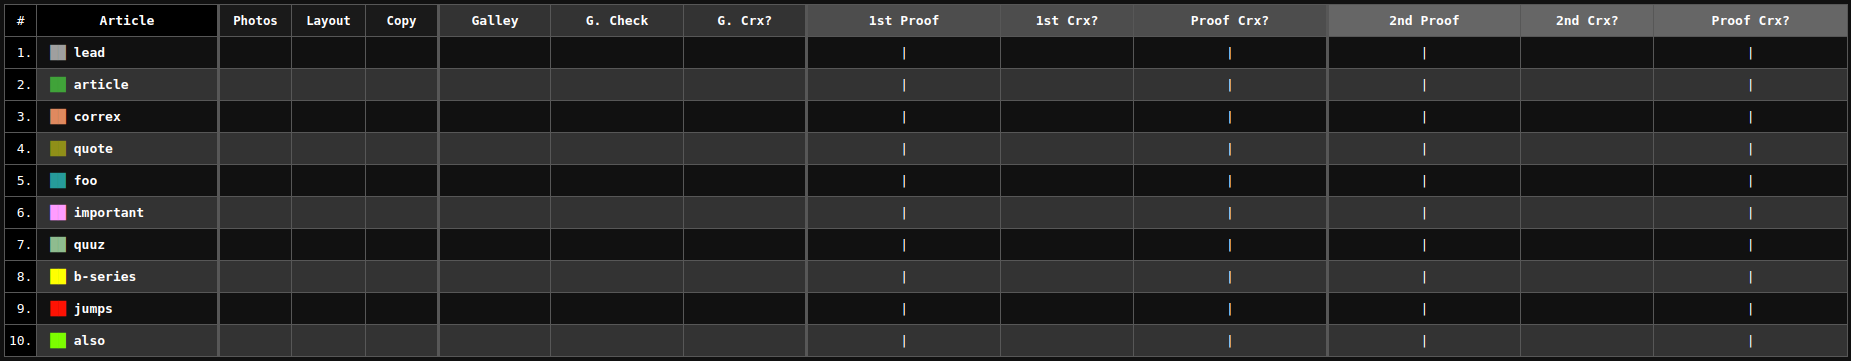
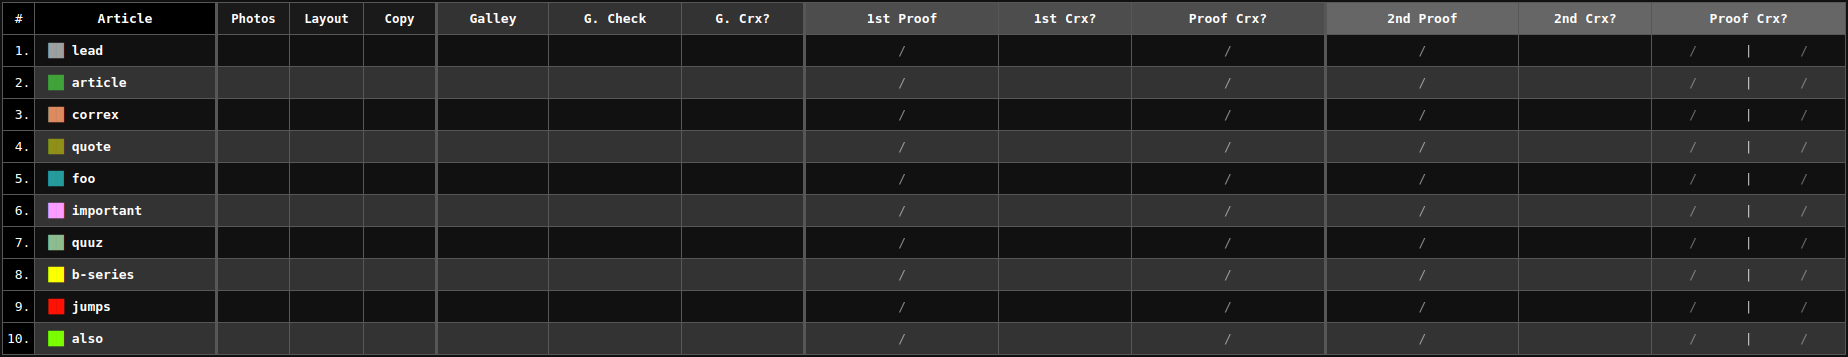
Tweak bev styles for proofing

diff --git a/docs/example/pubmap.html b/docs/example/pubmap.html
@@ -1,6 +1,6 @@
 <html>
   <head>
-    <title>📄 My Publication No. 1337 (rev: 1970-01-01T01:01:00Z)</title>
+    <title>📄 My Publication No. 1337 (rev: 1970-01-01T01:01:01Z)</title>
     <meta name="dcterms.created" content="1970-01-01" />
     <style>
       :root {
@@ -385,6 +385,14 @@
       .bev td {
         text-align: center;
       }
+      .bev .double {
+        display: flex;
+        justify-content: space-around;
+        opacity: 0.75;
+      }
+      .bev .team {
+        opacity: 0.5;
+      }
       .bev .two-person {
         min-width: 10em;
       }
@@ -529,7 +537,7 @@
 
   <body>
     <header id="masthead">
-      <h1>📄 My Publication No. 1337 (rev: 1970-01-01T01:01:00Z)</h1>
+      <h1>📄 My Publication No. 1337 (rev: 1970-01-01T01:01:01Z)</h1>
     </header>
     <main>
       <div class="section-map">
@@ -1390,12 +1398,18 @@
                 <td></td>
                 <td></td>
                 <td class="phase-end"></td>
-                <td>|</td>
+                <td><span class="team">/</span></td>
                 <td></td>
-                <td class="phase-end">|</td>
-                <td>|</td>
+                <td class="phase-end"><span class="team">/</span></td>
+                <td><span class="team">/</span></td>
                 <td></td>
-                <td>|</td>
+                <td>
+                  <div class="double">
+                    <span class="team">/</span>
+                    <span>|</span>
+                    <span class="team">/</span>
+                  </div>
+                </td>
               </tr>
 
               <tr
@@ -1416,12 +1430,18 @@
                 <td></td>
                 <td></td>
                 <td class="phase-end"></td>
-                <td>|</td>
+                <td><span class="team">/</span></td>
                 <td></td>
-                <td class="phase-end">|</td>
-                <td>|</td>
+                <td class="phase-end"><span class="team">/</span></td>
+                <td><span class="team">/</span></td>
                 <td></td>
-                <td>|</td>
+                <td>
+                  <div class="double">
+                    <span class="team">/</span>
+                    <span>|</span>
+                    <span class="team">/</span>
+                  </div>
+                </td>
               </tr>
 
               <tr
@@ -1442,12 +1462,18 @@
                 <td></td>
                 <td></td>
                 <td class="phase-end"></td>
-                <td>|</td>
+                <td><span class="team">/</span></td>
                 <td></td>
-                <td class="phase-end">|</td>
-                <td>|</td>
+                <td class="phase-end"><span class="team">/</span></td>
+                <td><span class="team">/</span></td>
                 <td></td>
-                <td>|</td>
+                <td>
+                  <div class="double">
+                    <span class="team">/</span>
+                    <span>|</span>
+                    <span class="team">/</span>
+                  </div>
+                </td>
               </tr>
 
               <tr
@@ -1468,12 +1494,18 @@
                 <td></td>
                 <td></td>
                 <td class="phase-end"></td>
-                <td>|</td>
+                <td><span class="team">/</span></td>
                 <td></td>
-                <td class="phase-end">|</td>
-                <td>|</td>
+                <td class="phase-end"><span class="team">/</span></td>
+                <td><span class="team">/</span></td>
                 <td></td>
-                <td>|</td>
+                <td>
+                  <div class="double">
+                    <span class="team">/</span>
+                    <span>|</span>
+                    <span class="team">/</span>
+                  </div>
+                </td>
               </tr>
 
               <tr
@@ -1494,12 +1526,18 @@
                 <td></td>
                 <td></td>
                 <td class="phase-end"></td>
-                <td>|</td>
+                <td><span class="team">/</span></td>
                 <td></td>
-                <td class="phase-end">|</td>
-                <td>|</td>
+                <td class="phase-end"><span class="team">/</span></td>
+                <td><span class="team">/</span></td>
                 <td></td>
-                <td>|</td>
+                <td>
+                  <div class="double">
+                    <span class="team">/</span>
+                    <span>|</span>
+                    <span class="team">/</span>
+                  </div>
+                </td>
               </tr>
 
               <tr
@@ -1520,12 +1558,18 @@
                 <td></td>
                 <td></td>
                 <td class="phase-end"></td>
-                <td>|</td>
+                <td><span class="team">/</span></td>
                 <td></td>
-                <td class="phase-end">|</td>
-                <td>|</td>
+                <td class="phase-end"><span class="team">/</span></td>
+                <td><span class="team">/</span></td>
                 <td></td>
-                <td>|</td>
+                <td>
+                  <div class="double">
+                    <span class="team">/</span>
+                    <span>|</span>
+                    <span class="team">/</span>
+                  </div>
+                </td>
               </tr>
 
               <tr
@@ -1546,12 +1590,18 @@
                 <td></td>
                 <td></td>
                 <td class="phase-end"></td>
-                <td>|</td>
+                <td><span class="team">/</span></td>
                 <td></td>
-                <td class="phase-end">|</td>
-                <td>|</td>
+                <td class="phase-end"><span class="team">/</span></td>
+                <td><span class="team">/</span></td>
                 <td></td>
-                <td>|</td>
+                <td>
+                  <div class="double">
+                    <span class="team">/</span>
+                    <span>|</span>
+                    <span class="team">/</span>
+                  </div>
+                </td>
               </tr>
 
               <tr
@@ -1572,12 +1622,18 @@
                 <td></td>
                 <td></td>
                 <td class="phase-end"></td>
-                <td>|</td>
+                <td><span class="team">/</span></td>
                 <td></td>
-                <td class="phase-end">|</td>
-                <td>|</td>
+                <td class="phase-end"><span class="team">/</span></td>
+                <td><span class="team">/</span></td>
                 <td></td>
-                <td>|</td>
+                <td>
+                  <div class="double">
+                    <span class="team">/</span>
+                    <span>|</span>
+                    <span class="team">/</span>
+                  </div>
+                </td>
               </tr>
 
               <tr
@@ -1598,12 +1654,18 @@
                 <td></td>
                 <td></td>
                 <td class="phase-end"></td>
-                <td>|</td>
+                <td><span class="team">/</span></td>
                 <td></td>
-                <td class="phase-end">|</td>
-                <td>|</td>
+                <td class="phase-end"><span class="team">/</span></td>
+                <td><span class="team">/</span></td>
                 <td></td>
-                <td>|</td>
+                <td>
+                  <div class="double">
+                    <span class="team">/</span>
+                    <span>|</span>
+                    <span class="team">/</span>
+                  </div>
+                </td>
               </tr>
 
               <tr
@@ -1624,12 +1686,18 @@
                 <td></td>
                 <td></td>
                 <td class="phase-end"></td>
-                <td>|</td>
+                <td><span class="team">/</span></td>
                 <td></td>
-                <td class="phase-end">|</td>
-                <td>|</td>
+                <td class="phase-end"><span class="team">/</span></td>
+                <td><span class="team">/</span></td>
                 <td></td>
-                <td>|</td>
+                <td>
+                  <div class="double">
+                    <span class="team">/</span>
+                    <span>|</span>
+                    <span class="team">/</span>
+                  </div>
+                </td>
               </tr>
             </tbody>
           </table>

diff --git a/src/share/pubmap/html/tr-bev.html b/src/share/pubmap/html/tr-bev.html
@@ -16,10 +16,16 @@
   <td></td>
   <td></td>
   <td class="phase-end"></td>
-  <td>|</td>
+  <td><span class="team">/</span></td>
   <td></td>
-  <td class="phase-end">|</td>
-  <td>|</td>
+  <td class="phase-end"><span class="team">/</span></td>
+  <td><span class="team">/</span></td>
   <td></td>
-  <td>|</td>
+  <td>
+    <div class="double">
+      <span class="team">/</span>
+      <span>|</span>
+      <span class="team">/</span>
+    </div>
+  </td>
 </tr>

diff --git a/src/share/pubmap/css/01-style.css b/src/share/pubmap/css/01-style.css
@@ -447,6 +447,16 @@ table .flatlink:focus {
   text-align: center;
 }
 
+.bev .double {
+  display: flex;
+  justify-content: space-around;
+  opacity: 0.75;
+}
+
+.bev .team {
+  opacity: 0.5;
+}
+
 .bev .two-person {
   min-width: 10em;
 }
